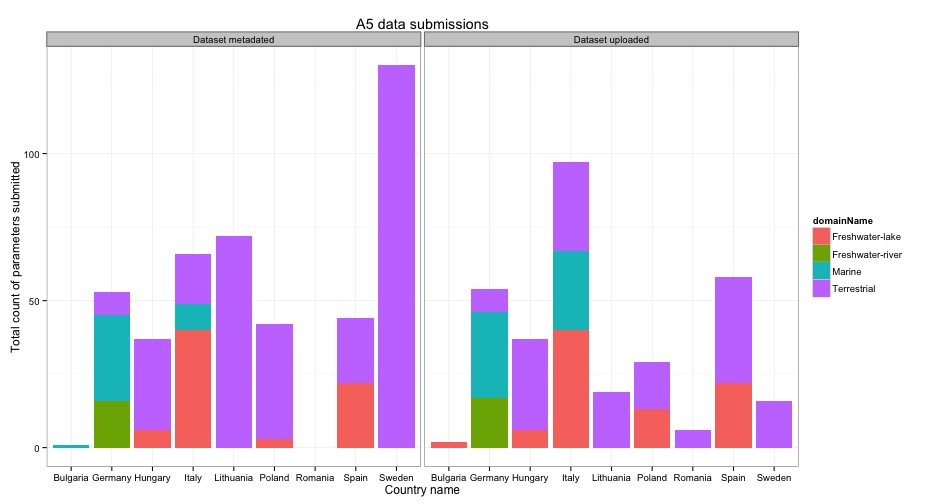
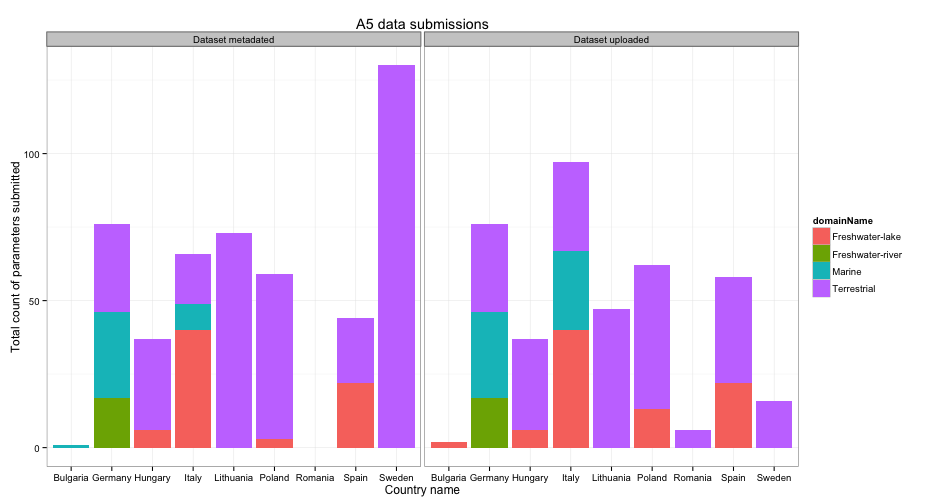
publishing deck

diff --git a/index.html b/index.html
@@ -48,9 +48,9 @@
   </hgroup>
   <article>
     <ul>
-<li>Last updated <code>2013-05-03</code></li>
+<li>Last updated <code>2013-05-07</code></li>
 <li>Deadline for data submission: <code>2013-03-08</code></li>
-<li>Days to deadline: <code>-56</code></li>
+<li>Days to deadline: <code>-60</code></li>
 <li>Total number of sites sampled in 2012: <code>61</code>; sub-sites: <code>65</code></li>
 </ul>
 
@@ -58,13 +58,13 @@
 
 <!-- html table generated in R 3.0.0 by xtable 1.7-1 package -->
 
-<!-- Fri May  3 10:14:02 2013 -->
+<!-- Tue May  7 22:57:52 2013 -->
 
 <TABLE border=1>
 <TR> <TH>  </TH> <TH> No. uploaded </TH> <TH> No. metadated </TH> <TH> Total no. </TH> <TH> Upload ratio </TH> <TH> Metadata ratio </TH>  </TR>
-  <TR> <TD align="right"> Year2012 </TD> <TD align="right"> 254 </TD> <TD align="right"> 355 </TD> <TD align="right"> 2025 </TD> <TD align="right"> 0.13 </TD> <TD align="right"> 0.18 </TD> </TR>
-  <TR> <TD align="right"> Year2011 </TD> <TD align="right">  64 </TD> <TD align="right">  90 </TD> <TD align="right"> 270 </TD> <TD align="right"> 0.24 </TD> <TD align="right"> 0.33 </TD> </TR>
-  <TR> <TD align="right"> Sum </TD> <TD align="right"> 318 </TD> <TD align="right"> 445 </TD> <TD align="right"> 2295 </TD> <TD align="right"> 0.14 </TD> <TD align="right"> 0.19 </TD> </TR>
+  <TR> <TD align="right"> Year2012 </TD> <TD align="right"> 319 </TD> <TD align="right"> 382 </TD> <TD align="right"> 2025 </TD> <TD align="right"> 0.16 </TD> <TD align="right"> 0.19 </TD> </TR>
+  <TR> <TD align="right"> Year2011 </TD> <TD align="right">  82 </TD> <TD align="right"> 104 </TD> <TD align="right"> 270 </TD> <TD align="right"> 0.30 </TD> <TD align="right"> 0.39 </TD> </TR>
+  <TR> <TD align="right"> Sum </TD> <TD align="right"> 401 </TD> <TD align="right"> 486 </TD> <TD align="right"> 2295 </TD> <TD align="right"> 0.17 </TD> <TD align="right"> 0.21 </TD> </TR>
    </TABLE>
 
   </article>

diff --git a/index.md b/index.md
@@ -26,19 +26,19 @@ github:
 
 ## State of uploading process
 
-* Last updated ``2013-05-03``
+* Last updated ``2013-05-07``
 * Deadline for data submission: `2013-03-08`
-* Days to deadline: ``-56``
+* Days to deadline: ``-60``
 * Total number of sites sampled in 2012: ``61``; sub-sites: ``65``
 
 Parameters uploaded and metadated:
 <!-- html table generated in R 3.0.0 by xtable 1.7-1 package -->
-<!-- Fri May  3 10:14:02 2013 -->
+<!-- Tue May  7 22:57:52 2013 -->
 <TABLE border=1>
 <TR> <TH>  </TH> <TH> No. uploaded </TH> <TH> No. metadated </TH> <TH> Total no. </TH> <TH> Upload ratio </TH> <TH> Metadata ratio </TH>  </TR>
-  <TR> <TD align="right"> Year2012 </TD> <TD align="right"> 254 </TD> <TD align="right"> 355 </TD> <TD align="right"> 2025 </TD> <TD align="right"> 0.13 </TD> <TD align="right"> 0.18 </TD> </TR>
-  <TR> <TD align="right"> Year2011 </TD> <TD align="right">  64 </TD> <TD align="right">  90 </TD> <TD align="right"> 270 </TD> <TD align="right"> 0.24 </TD> <TD align="right"> 0.33 </TD> </TR>
-  <TR> <TD align="right"> Sum </TD> <TD align="right"> 318 </TD> <TD align="right"> 445 </TD> <TD align="right"> 2295 </TD> <TD align="right"> 0.14 </TD> <TD align="right"> 0.19 </TD> </TR>
+  <TR> <TD align="right"> Year2012 </TD> <TD align="right"> 319 </TD> <TD align="right"> 382 </TD> <TD align="right"> 2025 </TD> <TD align="right"> 0.16 </TD> <TD align="right"> 0.19 </TD> </TR>
+  <TR> <TD align="right"> Year2011 </TD> <TD align="right">  82 </TD> <TD align="right"> 104 </TD> <TD align="right"> 270 </TD> <TD align="right"> 0.30 </TD> <TD align="right"> 0.39 </TD> </TR>
+  <TR> <TD align="right"> Sum </TD> <TD align="right"> 401 </TD> <TD align="right"> 486 </TD> <TD align="right"> 2295 </TD> <TD align="right"> 0.17 </TD> <TD align="right"> 0.21 </TD> </TR>
    </TABLE>
 
 
